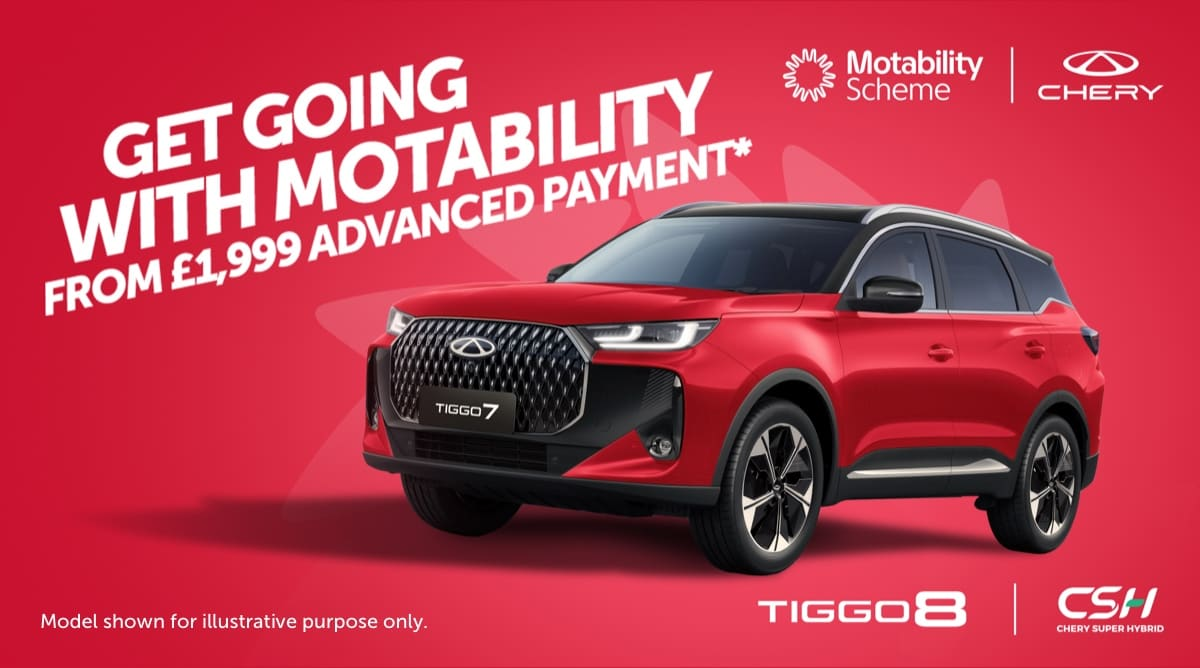
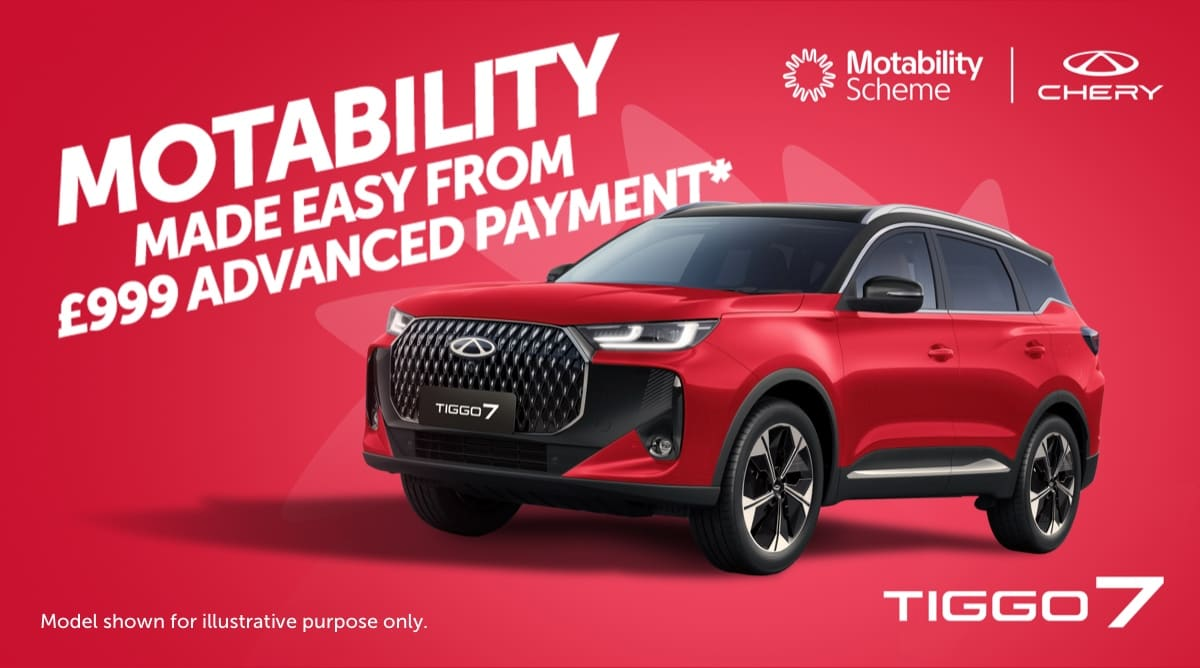
update

Changed region(s): [[0.0308, 0.0299, 0.6475, 0.509], [0.6167, 0.8383, 0.9867, 0.9581]]

diff --git a/complete/chery/TIGGO 7 Motability Email/index.html b/complete/chery/TIGGO 7 Motability Email/index.html
@@ -490,7 +490,7 @@
             <tbody>
               <tr>
                 <td>
-                  <img class="resp" align="center" src="images/hero-img.jpg" alt="GET GOING WITH MOTABILITY. FROM £1,999 ADVANCED PAYMENT*" width="600" border="0" style="display: block; width: 600px; max-width: 100%; height: auto">
+                  <img class="resp" align="center" src="images/hero-img.jpg" alt="MOTABILITY MADE EASY FROM £999 ADVANCED PAYMENT*" width="600" border="0" style="display: block; width: 600px; max-width: 100%; height: auto">
                 </td>
               </tr>
             </tbody>
@@ -510,7 +510,7 @@
               <tr>
                 <td style="padding: 40px 40px 20px;" align="center">
                   <p style="font-family: Arial, sans-serif; font-size:16px; line-height: 24px; color:#ffffff; Margin: 0 0 20px">Hello&nbsp;[Name],</p>
-                  <p style="font-family: Arial, sans-serif; font-size:16px; line-height: 24px; color:#ffffff; Margin: 0 0 20px">Chery has officially joined the Motability Scheme, and the adaptable TIGGO 7 is now available with an advance payment of just&nbsp;£1,999.</p>
+                  <p style="font-family: Arial, sans-serif; font-size:16px; line-height: 24px; color:#ffffff; Margin: 0 0 20px">Chery has officially joined the Motability Scheme, and the adaptable TIGGO 7 is now available with an advance payment of just&nbsp;£999.</p>
                   <p style="font-family: Arial, sans-serif; font-size:16px; line-height: 24px; color:#ffffff; Margin: 0 0 0px">With smart hybrid technology, great equipment and a comfortable, practical interior, the TIGGO 7 is an ideal SUV for everyday life, offering value, space and ease on every&nbsp;journey.</p>
                 </td>
               </tr>
@@ -549,7 +549,7 @@
             <tbody>
               <tr>
                 <td style="padding: 20px 40px 30px;" align="center">
-                  <p style="font-family: Arial, sans-serif; font-size:16px; line-height: 24px; color:#ffffff; Margin: 0 0 30px">Chery has officially joined the Motability Scheme, and the adaptable TIGGO 7 is now available with an advance payment of just&nbsp;£1,999.</p>
+                  <p style="font-family: Arial, sans-serif; font-size:16px; line-height: 24px; color:#ffffff; Margin: 0 0 30px">The TIGGO 7 on the Motability Scheme comes with a host of benefits, here are just a few of the&nbsp;highlights:</p>
                   <table role="presentation" border="0" cellspacing="0" cellpadding="0" width="100%" style="">
                     <!-- Row 1 -->
                     <tr>
@@ -614,7 +614,7 @@
                               font-size:16px; line-height:15px;
                               color:#ffffff; text-align:center; 
                               min-width: 140px; background-color: #C8102E; font-weight: bold; border-radius: 5px">
-                              <a href="https://www.cherycar.co.uk/"
+                              <a href="https://www.cherycar.co.uk/book-test-drive?model=tiggo-7"
                                 style="color:#ffffff; text-decoration:none; display:inline-block;">
                               Book a test drive 
                               </a>
@@ -709,7 +709,7 @@
                               font-size:16px; line-height:15px;
                               color:#ffffff; text-align:center; 
                               min-width: 140px; background-color: #ffffff; font-weight: bold; border-radius: 5px">
-                              <a href="https://www.cherycar.co.uk/"
+                              <a href="https://www.cherycar.co.uk/models/tiggo-7"
                                 style="color:#000000; text-decoration:none; display:inline-block;">
                               TIGGO 7 brochure
                               </a>
@@ -756,19 +756,19 @@
                           <table role="presentation" border="0" cellpadding="0" cellspacing="0" style="table-layout: auto;" width="" align="left">
                             <tr>
                               <td>
-                                <a target="_blank" href="https://www.facebook.com/">
+                                <a target="_blank" href="https://www.facebook.com/cherycarsuk">
                                   <div class="img" style="display:inline-block; overflow:hidden; float:left; width:auto; max-height:none; max-width:none; line-height:0px; visibility:visible;"><img src="images/10_facebook2x.png" alt="Facebook" width="32" height="32" border="0" style="width:32px; height:32px; display:block; border:none; Margin: 0px; max-width: 100%;" /></div>
                                 </a>
                               </td>
                               <td width="15" style="width: 10px;">&nbsp;</td>
                               <td>
-                                <a target="_blank" href="https://www.linkedin.com/">
+                                <a target="_blank" href="https://www.linkedin.com/company/cherycar-uk/">
                                   <div class="img" style="display:inline-block; overflow:hidden; float:left; width:auto; max-height:none; max-width:none; line-height:0px; visibility:visible;"><img src="images/11_linkedin2x.png" alt="LinkedIn" width="32" height="32" border="0" style="width:32px; height:32px; display:block; border:none; Margin: 0px; max-width: 100%;" /></div>
                                 </a>
                               </td>
                               <td width="15" style="width: 10px;">&nbsp;</td>
                               <td>
-                                <a target="_blank" href="https://www.instagram.com/">
+                                <a target="_blank" href="https://www.instagram.com/cherycars_uk/">
                                   <div class="img" style="display:inline-block; overflow:hidden; float:left; width:auto; max-height:none; max-width:none; line-height:0px; visibility:visible;"><img src="images/12_instagram2x.png" alt="Instagram" width="32" height="32" border="0" style="width:32px; height:32px; display:block; border:none; Margin: 0px; max-width: 100%;" /></div>
                                 </a>
                               </td>
@@ -789,10 +789,10 @@
                       </tr>
                       <tr>
                         <td class="stack-column" width="33.333333333333336%" style="font-family: Arial, sans-serif; font-size:14px; color:#FFFFFF; mso-line-height-rule:exactly; line-height:20px; text-align: center; padding: 10px 0">
-                          <a href="http://" style="color: #ffffff">Privacy statement</a>
+                          <a href="https://www.cherycar.co.uk/privacy" style="color: #ffffff">Privacy statement</a>
                         </td>
                         <td class="stack-column" width="33.333333333333336%" style="font-family: Arial, sans-serif; font-size:14px; color:#FFFFFF; mso-line-height-rule:exactly; line-height:20px; text-align: center; padding: 10px 0">
-                          <a href="http://" style="color: #ffffff">Legal notice</a></td>
+                          <a href="https://www.cherycar.co.uk/terms-of-use" style="color: #ffffff">Legal notice</a></td>
                         <td class="stack-column" width="33.333333333333336%" style="font-family: Arial, sans-serif; font-size:14px; color:#FFFFFF; mso-line-height-rule:exactly; line-height:20px; text-align: center; padding: 10px 0">
                           <a href="http://" style="color: #ffffff">Unsubscribe</a></td>
                       </tr>

diff --git a/complete/chery/TIGGO 8 Motability Email/index.html b/complete/chery/TIGGO 8 Motability Email/index.html
@@ -614,7 +614,7 @@
                               font-size:16px; line-height:15px;
                               color:#ffffff; text-align:center; 
                               min-width: 140px; background-color: #C8102E; font-weight: bold; border-radius: 5px">
-                              <a href="https://www.cherycar.co.uk/"
+                              <a href="https://www.cherycar.co.uk/book-test-drive"
                                 style="color:#ffffff; text-decoration:none; display:inline-block;">
                               Book a test drive 
                               </a>
@@ -709,7 +709,7 @@
                               font-size:16px; line-height:15px;
                               color:#ffffff; text-align:center; 
                               min-width: 140px; border: 1px solid #ffffff ;font-weight: bold; border-radius: 5px">
-                              <a href="https://www.cherycar.co.uk/"
+                              <a href="https://www.cherycar.co.uk/models/tiggo-8"
                                 style="color:#ffffff; text-decoration:none; display:inline-block;">
                               TIGGO 8 brochure
                               </a>
@@ -756,19 +756,19 @@
                           <table role="presentation" border="0" cellpadding="0" cellspacing="0" style="table-layout: auto;" width="" align="left">
                             <tr>
                               <td>
-                                <a target="_blank" href="https://www.facebook.com/">
+                                <a target="_blank" href="https://www.facebook.com/cherycarsuk">
                                   <div class="img" style="display:inline-block; overflow:hidden; float:left; width:auto; max-height:none; max-width:none; line-height:0px; visibility:visible;"><img src="images/10_facebook2x.png" alt="Facebook" width="32" height="32" border="0" style="width:32px; height:32px; display:block; border:none; Margin: 0px; max-width: 100%;" /></div>
                                 </a>
                               </td>
                               <td width="15" style="width: 10px;">&nbsp;</td>
                               <td>
-                                <a target="_blank" href="https://www.linkedin.com/">
+                                <a target="_blank" href="https://www.linkedin.com/company/cherycar-uk/">
                                   <div class="img" style="display:inline-block; overflow:hidden; float:left; width:auto; max-height:none; max-width:none; line-height:0px; visibility:visible;"><img src="images/11_linkedin2x.png" alt="LinkedIn" width="32" height="32" border="0" style="width:32px; height:32px; display:block; border:none; Margin: 0px; max-width: 100%;" /></div>
                                 </a>
                               </td>
                               <td width="15" style="width: 10px;">&nbsp;</td>
                               <td>
-                                <a target="_blank" href="https://www.instagram.com/">
+                                <a target="_blank" href="https://www.instagram.com/cherycars_uk/">
                                   <div class="img" style="display:inline-block; overflow:hidden; float:left; width:auto; max-height:none; max-width:none; line-height:0px; visibility:visible;"><img src="images/12_instagram2x.png" alt="Instagram" width="32" height="32" border="0" style="width:32px; height:32px; display:block; border:none; Margin: 0px; max-width: 100%;" /></div>
                                 </a>
                               </td>
@@ -789,7 +789,7 @@
                       </tr>
                       <tr>
                         <td class="stack-column" width="33.333333333333336%" style="font-family: Arial, sans-serif; font-size:14px; color:#FFFFFF; mso-line-height-rule:exactly; line-height:20px; text-align: center; padding: 10px 0">
-                          <a href="http://" style="color: #ffffff">Privacy statement</a>
+                          <a href="https://www.cherycar.co.uk/privacy" style="color: #ffffff">Privacy statement</a>
                         </td>
                         <td class="stack-column" width="33.333333333333336%" style="font-family: Arial, sans-serif; font-size:14px; color:#FFFFFF; mso-line-height-rule:exactly; line-height:20px; text-align: center; padding: 10px 0">
                           <a href="http://" style="color: #ffffff">Legal notice</a></td>
